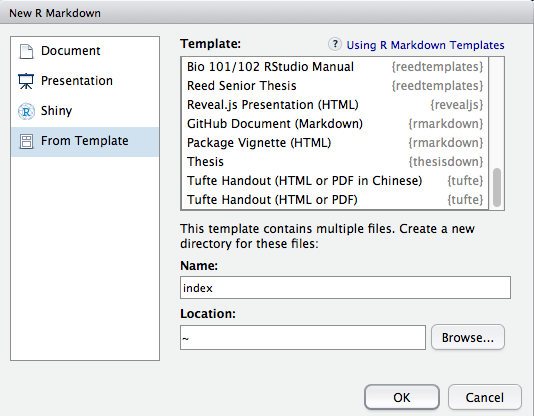
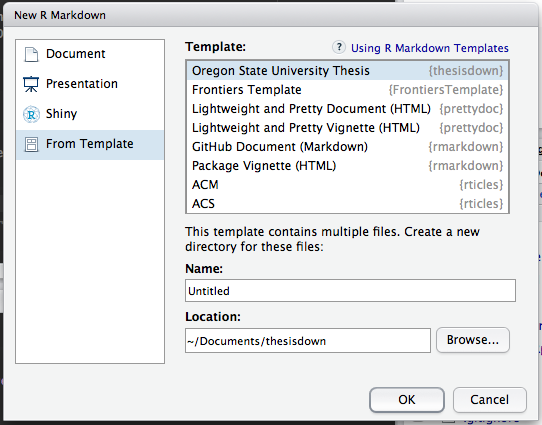
updated package name to beaverdown

Changed region(s): [[0.0, 0.0, 1.0, 1.0]]

diff --git a/README.md b/README.md
@@ -1,9 +1,53 @@
-# thesisdown
+# beaverdown
 
-This project was inspired by the [bookdown](http://github.com/rstudio/bookdown) package and is an updated version of my Senior Thesis template in the `reedtemplates` package [here](http://github.com/ismayc/reedtemplates).
+This project is a modified version Chester Ismay's [thesisdown][4] package to 
+provide support for Oregon State University's thesis.
 
-Currently, the PDF and gitbook versions are fully-functional.  The word and epub versions are developmental, have no templates behind them, and are essentially calls to the appropriate functions in bookdown.
+Currently, the PDF version is fully functional. All other versions are derived from thesisdown and are not guaranteed to work.
 
+
+## Installation
+
+To install and use `beaverdown` and use it for your dissertation/thesis, you will need:
+
+ - [pandoc][0]
+ - [LaTeX][1]
+ - [R >= 3.3.0][2]
+ - [RStudio][3] (optional, but it helps)
+
+Open Rstudio and type:
+
+
+```r
+if (!require("devtools")) install.packages("devtools", repos = "http://cran.rstudio.org")
+devtools::install_github("zkamvar/beaverdown")
+```
+
+To use it, open Rstudio, click on **File > New File > Rmarkdown ...** and then
+select the **Oregon State University Thesis** from the **Templates**.
+
+![New R Markdown](thesis_rmd.png)
+
+Make sure to give your thesis a title and save it to the correct path. Rstudio
+will send you to that directory and then you should open `_bookdown.yml` and
+edit the first Rmd file to be the name of your project:
+
+```diff
+book_filename: "thesis"
+chapter_name: "Chapter "
+-rmd_files: ["index.Rmd",
++rmd_files: ["myThesis.Rmd",
+  "chapters/01-chap1.Rmd",
+  "chapters/02-chap2.Rmd",
+  "chapters/03-chap3.Rmd",
+  "chapters/04-conclusion.Rmd",
+  "chapters/99-references.Rmd"
+  ]
+```
+
+Instructions for editing are in the [README file][5].
+
+<!--
 The current output for the four versions is here:
 - [PDF](https://github.com/ismayc/thesisdown_book/blob/gh-pages/thesis.pdf) (Generating LaTeX file is available [here](https://github.com/ismayc/thesisdown_book/blob/gh-pages/thesis.tex) with other files at in the [book directory](https://github.com/ismayc/thesisdown_book/tree/gh-pages).)
 - [Word](https://github.com/ismayc/thesisdown_book/blob/gh-pages/thesis.docx)
@@ -32,3 +76,12 @@ devtools::install_github("ismayc/thesisdown")
 ![New R Markdown](thesis_rmd.png)
 
 Note that this will currently only **Knit** if you name the directory `index` as shown above.
+
+-->
+
+ [0]: http://pandoc.org/
+ [1]: https://www.latex-project.org/get/
+ [2]: https://r-project.org
+ [3]: https://rstudio.org
+ [4]: https://github.com/ismayc/thesisdown
+ [5]: https://github.com/zkamvar/beaverdown/tree/master/inst/rmarkdown/templates/oregonstate/skeleton#readme

diff --git a/inst/rmarkdown/templates/oregonstate/skeleton/README.md b/inst/rmarkdown/templates/oregonstate/skeleton/README.md
@@ -1,7 +1,7 @@
 # Oregon State University RMarkdown thesis template
 
 This is the unofficial Oregon State University RMarkdown thesis template. You 
-can find a copy of this template at https://github.com/zkamvar/thesisdown/tree/osu-thesis.
+can find a copy of this template at https://github.com/zkamvar/beaverdown.
 
 To install the template, be sure you have the following:
 
